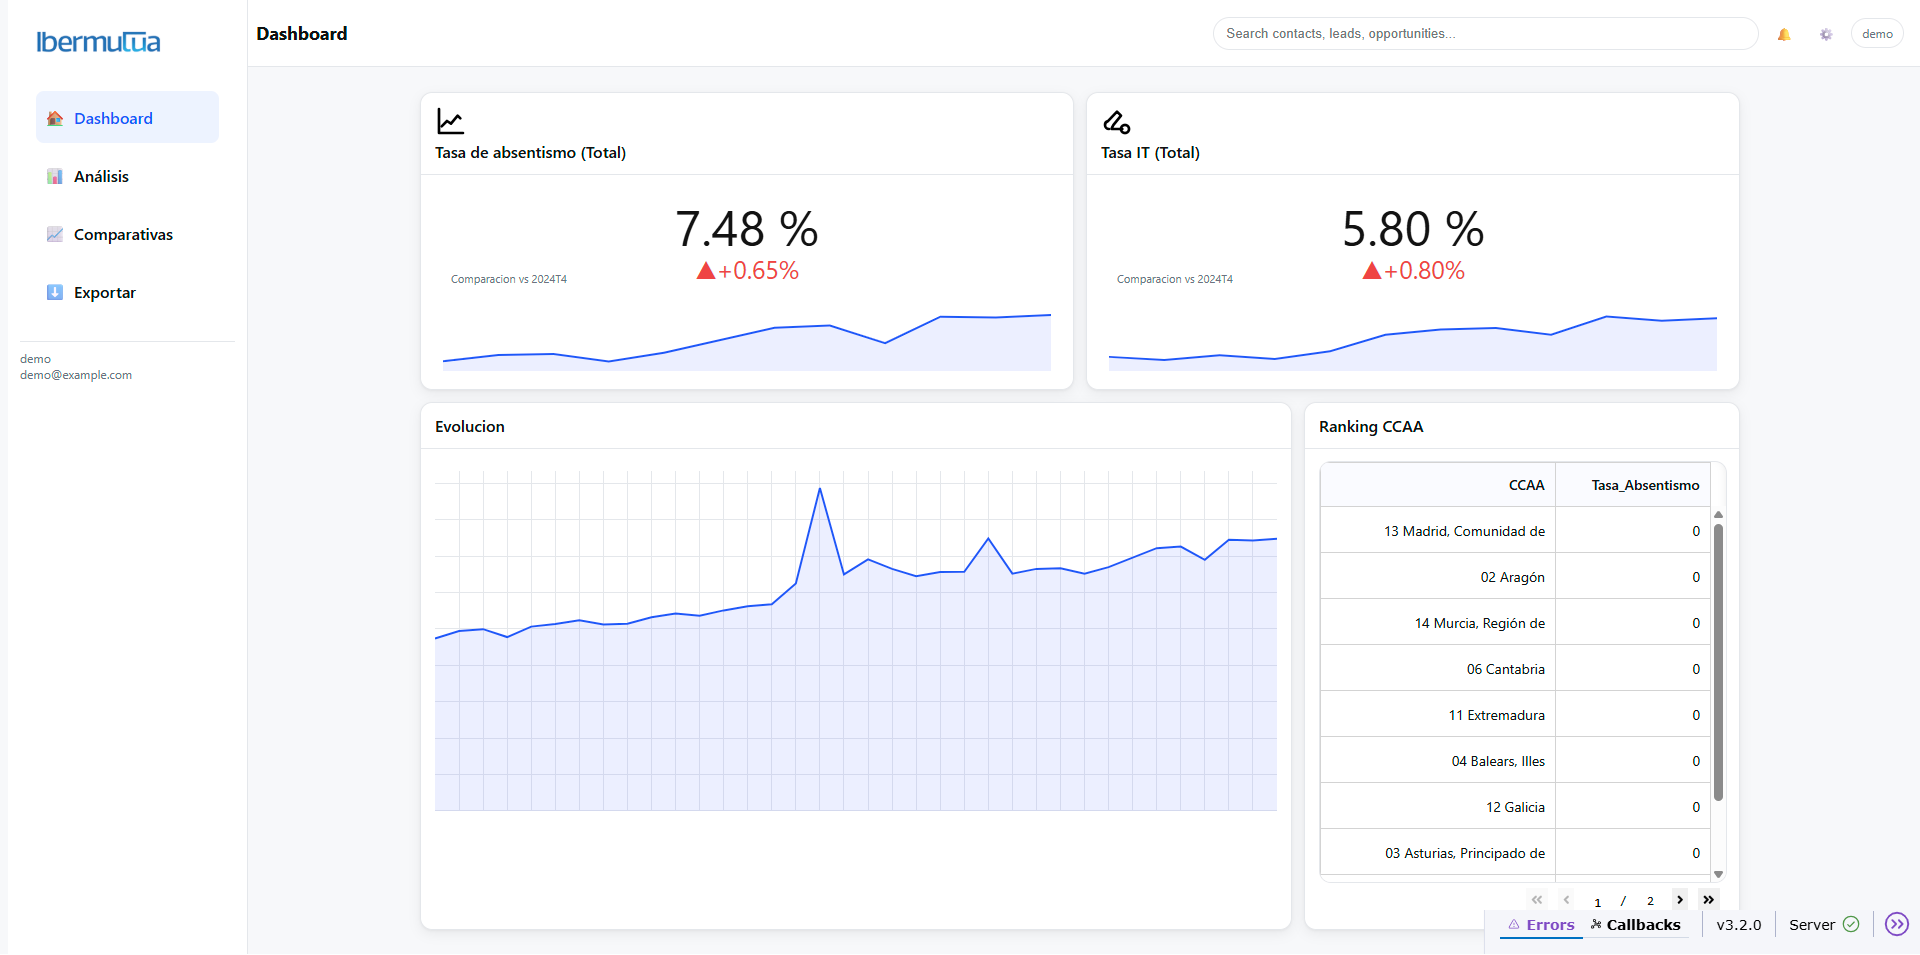
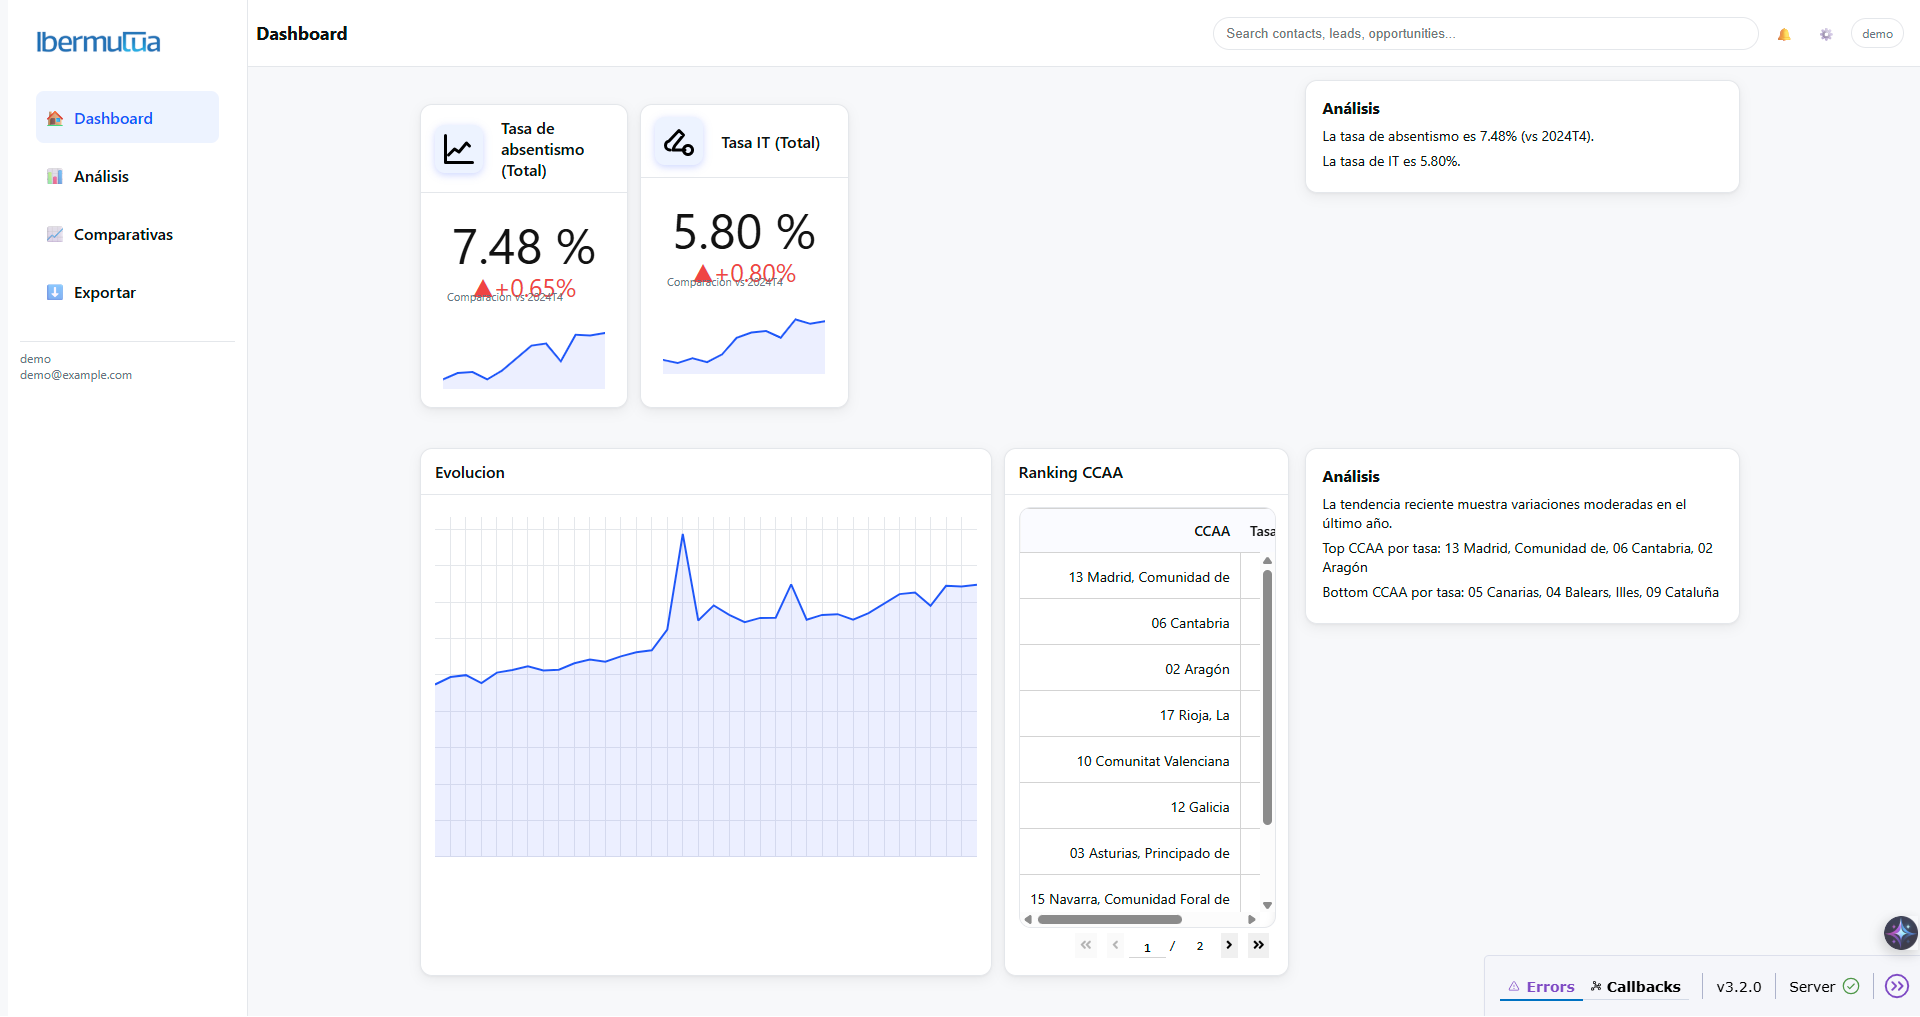
layout(section): grid fluido con clamp para panel de análisis; left-grid auto-fit; corregir CSS mal cerrado

diff --git a/apps/dash/assets/z-overrides.css b/apps/dash/assets/z-overrides.css
@@ -174,3 +174,14 @@ header { max-width: 100% !important; margin: 0 !important; }
 /* KPI compact para dejar espacio a insight */
 .kpi-grid--compact .kpi-card { padding: 12px; }
 .kpi-grid--compact .kpi-value { font-size: 20px; }
+
+
+
+/* Layout fluido por secciones */
+.section { display: grid; grid-template-columns: 1fr clamp(280px, 28vw, 380px); gap: 16px; align-items: start; margin-bottom: 16px; }
+.left-grid { display: grid; grid-template-columns: repeat(auto-fit, minmax(var(--card-min, 280px), 1fr)); gap: 16px; align-items: start; }
+.insight-panel { background: var(--color-surface); border: 1px solid var(--border-color); border-radius: var(--radius-lg); box-shadow: var(--card-shadow); padding: 16px; color: var(--color-text); }
+.insight-panel h4 { margin: 0 0 8px 0; font-size: 16px; font-weight: 700; }
+.insight-panel p { margin: 6px 0; font-size: var(--font-size-base); color: var(--color-text); }
+.insight-panel .insight-meta { margin-top: 8px; color: var(--color-muted); font-size: var(--font-size-sm); }
+@media (max-width: 992px) { .section { grid-template-columns: 1fr; } }

diff --git a/apps/dash/pages/dashboard.py b/apps/dash/pages/dashboard.py
@@ -58,12 +58,12 @@ def layout():
     return html.Div([
         # Sección 1: KPIs + Insight
         html.Div([
-            html.Div(id="kpis", className="kpi-grid kpi-grid--compact"),
+            html.Div(id="kpis", className="left-grid kpi-grid--compact"),
             html.Div([
                 html.H4("Análisis"),
                 html.P("Texto generado por IA sobre los KPIs."),
             ], id="insight-kpis", className="insight-panel"),
-        ], className="section-grid"),
+        ], className="section"),
 
         # Sección 2: Evolución + Ranking + Insight
         html.Div([
@@ -100,12 +100,12 @@ def layout():
                     ),
                     className="card-ranking",
                 ),
-            ], className="main"),
+            ], className="left-grid"),
             html.Div([
                 html.H4("Análisis"),
                 html.P("Texto generado por IA para evolución y ranking."),
             ], id="insight-main", className="insight-panel"),
-        ], className="section-grid"),
+        ], className="section"),
     ], className="page")
 
 
